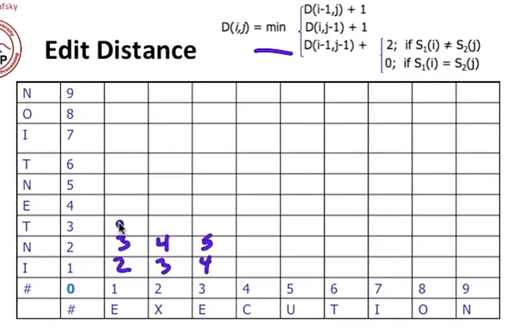
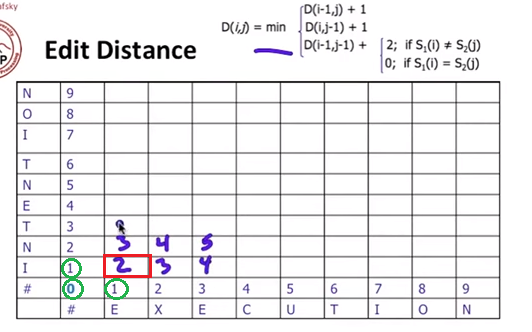
p

Changed region(s): [[0.0902, 0.753, 0.3008, 0.9036]]

diff --git a/_posts/BookNote/_posts/2019-05-01-NL-Chapter 4 N-gram Language Models - 副本.md b/_posts/BookNote/_posts/2019-05-01-NL-Chapter 4 N-gram Language Models - 副本.md
@@ -173,17 +173,35 @@ Y轴表示待变换的单词，X轴表示目标单词
 
 如何计算剩下空格举例：  
 
-Y轴"#"变换为X轴"#",没有操作填0  
+Y轴"#"变换为X轴"#",相等没有操作填0  
 
-Y轴"#I"变换为X轴"#E",首先经过前个步骤已将Y轴"#"变换为X轴"#"(操作0),只需"I"变换为"E",需要替换(操作2)，整个变换操作为2  
+Y轴"#I"变换为X轴"#E",有三条路径,即图中三个绿色圈：
 
-Y轴"#I"变换为X轴"#EX",首先经过前面步骤已将Y轴"#I"变换为X轴"#E"(操作2),只需插入"X"(操作1),整个变换操作为3  
+上方路径：前面路径Y轴"#"等于X轴"#"(操作0),将"I"删除(操作1)，则此时Y轴"#I"变换成"#"，后面路径**插入**为"E"(操作1)，整个变换操作为2，即红色格子数=前方格子里数字+1   
+中间路径：前面路径Y轴"#"等于X轴"#"(操作0),则此时Y轴"#"变换成"#"，后面路径将"I" **替换** 为"E"(操作2)，整个变换操作为2 ，即红色格子数=对角格子里数字+2
+下方路径：前面路径Y轴"#"等于X轴"#"(操作0),插入"E"(操作1)，则此时Y轴"#"变换成"#E"，后面路径将"I" **删除**(操作1)，整个变换操作为2 ， 即红色格子数=下方格子里数字+1
+
+取最小值填入表中,每个空格都会有三条路径对应三个操作，但是值不一定相等  
 
 最后绘制出整张图：  
 
 ![_config.yml]({{ site.baseurl }}/images/9From Languages to Information/image29.png)  
 
 8就是将"INTENTION"变换为X轴"EXECUTION"所需最小操作数
+
+## Backtrace for Computiing Alignments计算路线  
+
+通过Backtrace确定变换过程，从最右边顶点格子往前选择小于等于其的格子，最终路径有可能不止一条，黄色路径操作也是8
+
+![_config.yml]({{ site.baseurl }}/images/9From Languages to Information/image30.png)  
+
+![_config.yml]({{ site.baseurl }}/images/9From Languages to Information/image31.png)   
+
+## Performance  
+
+Time: O(nm) 计算表格   
+Space: O(nm) 存储表格   
+Backtrace： O(n+m) 
 
 
 
